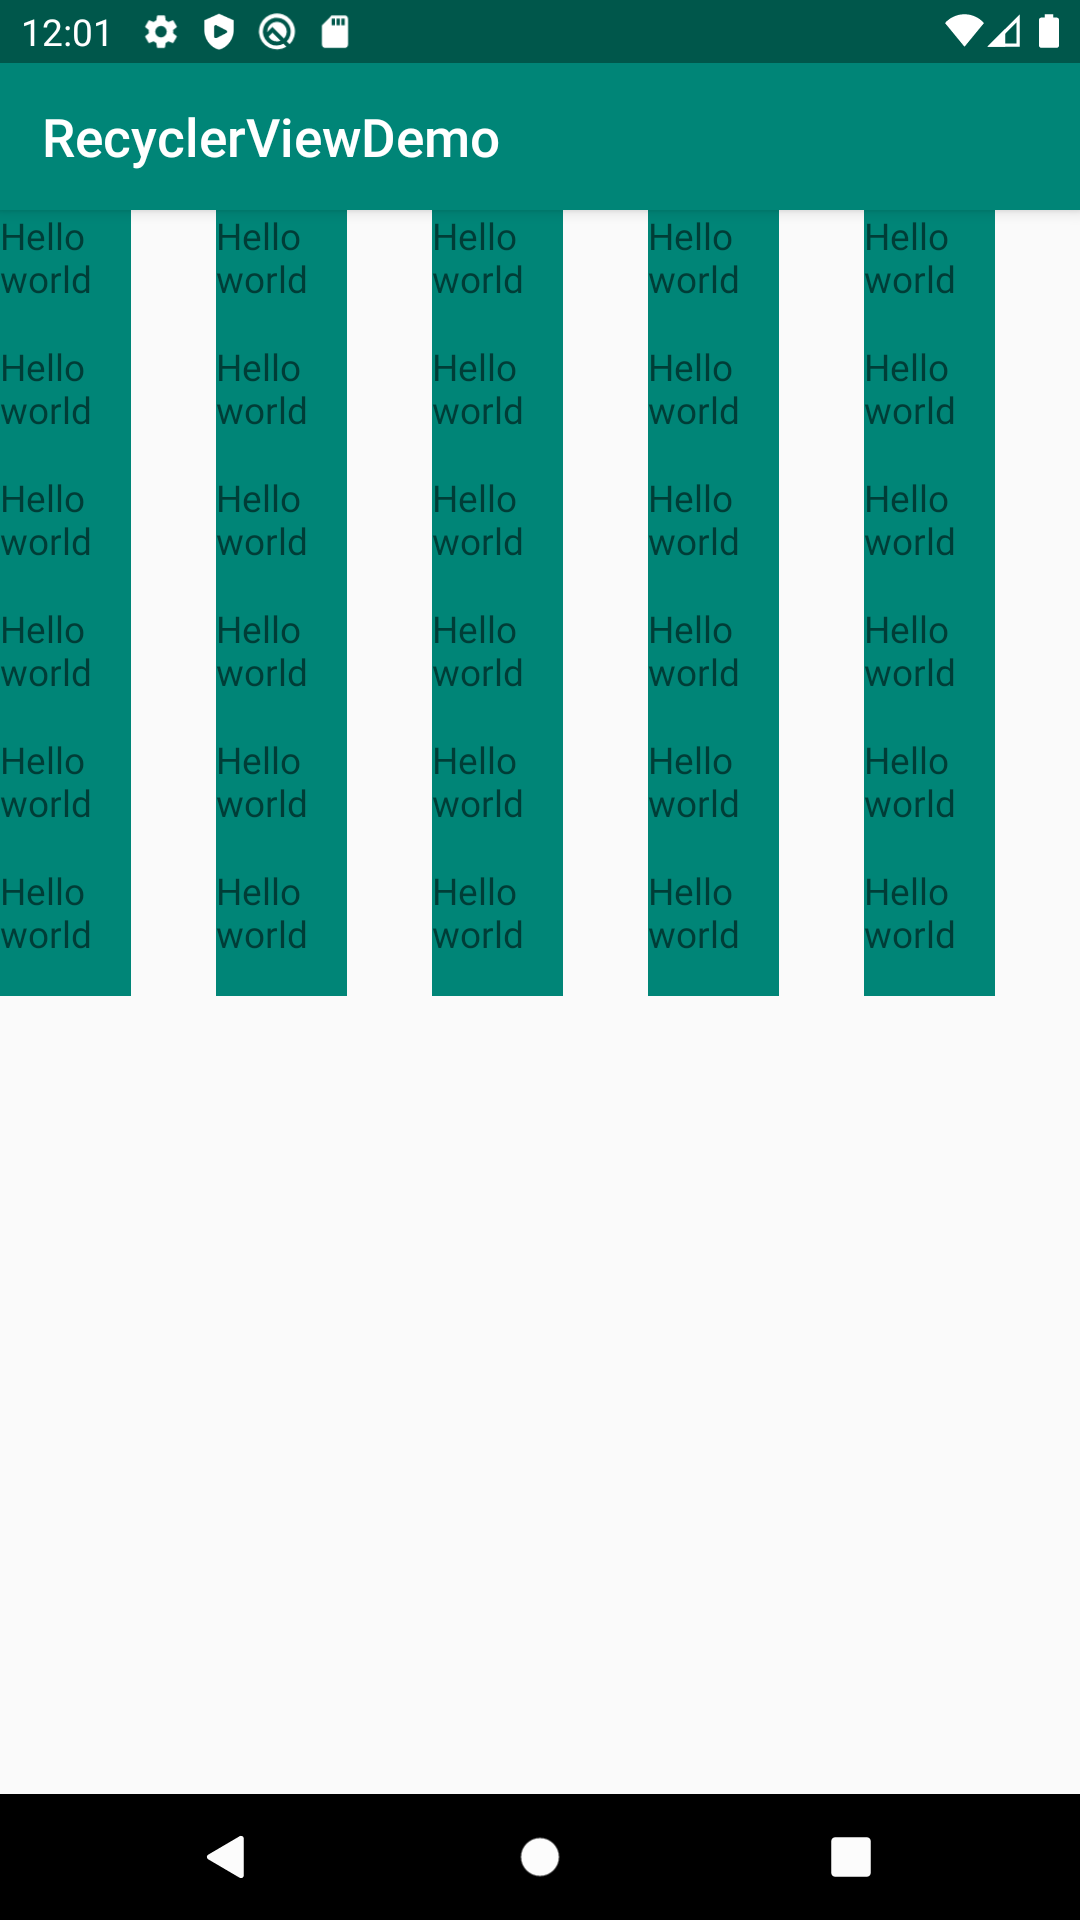
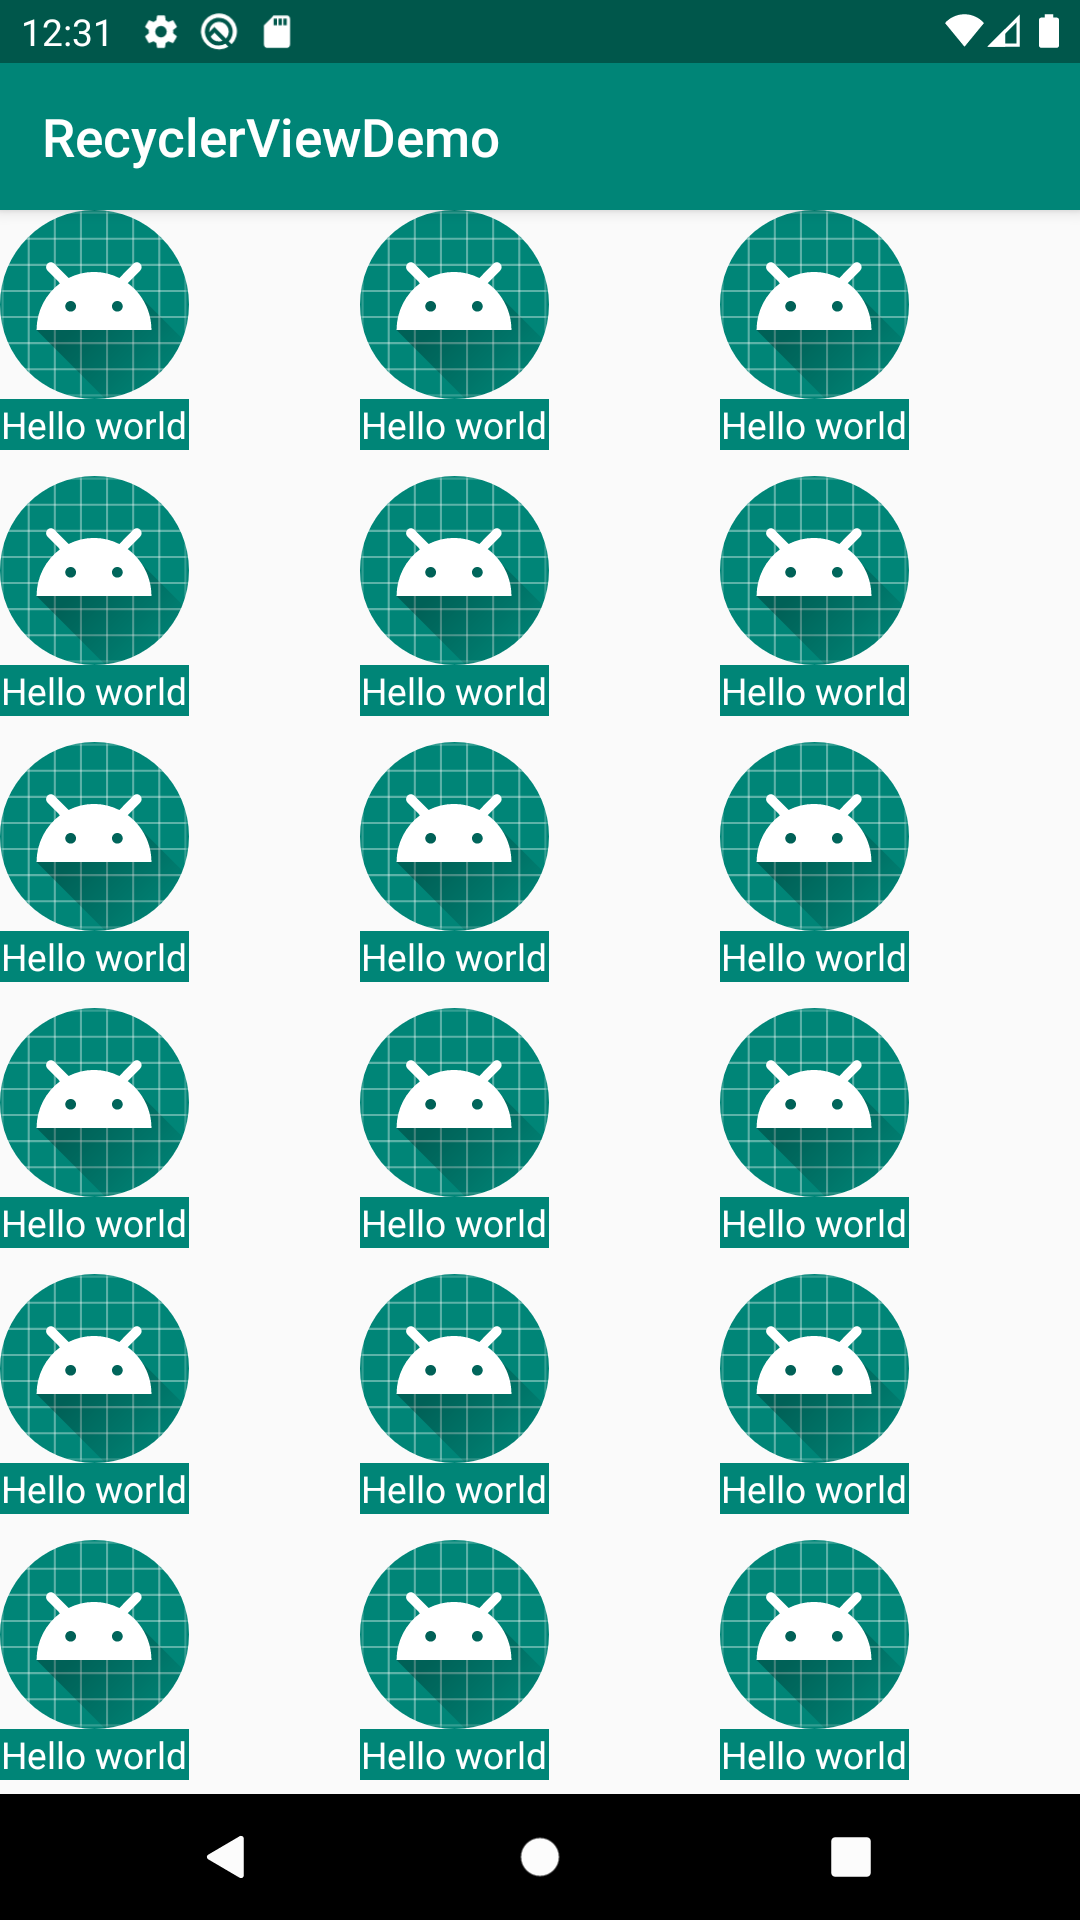
Add a ImageView in grid item.

diff --git a/app/src/main/java/com/example/carl/recyclerviewdemo/MainActivity.java b/app/src/main/java/com/example/carl/recyclerviewdemo/MainActivity.java
@@ -14,7 +14,7 @@ public class MainActivity extends AppCompatActivity {
         setContentView(R.layout.activity_main);
         rv = findViewById(R.id.rv2);
 
-        rv.setLayoutManager(new GridLayoutManager(this,5));
+        rv.setLayoutManager(new GridLayoutManager(this,3));
 
         rv.setAdapter(new GridAdapter(this));
     }

diff --git a/app/src/main/java/com/example/carl/recyclerviewdemo/GridAdapter.java b/app/src/main/java/com/example/carl/recyclerviewdemo/GridAdapter.java
@@ -35,7 +35,7 @@ public class GridAdapter extends RecyclerView.Adapter<GridAdapter.GridViewHolder
 
     @Override
     public int getItemCount() {
-        return 30;
+        return 40;
     }
 
     class GridViewHolder extends RecyclerView.ViewHolder{
